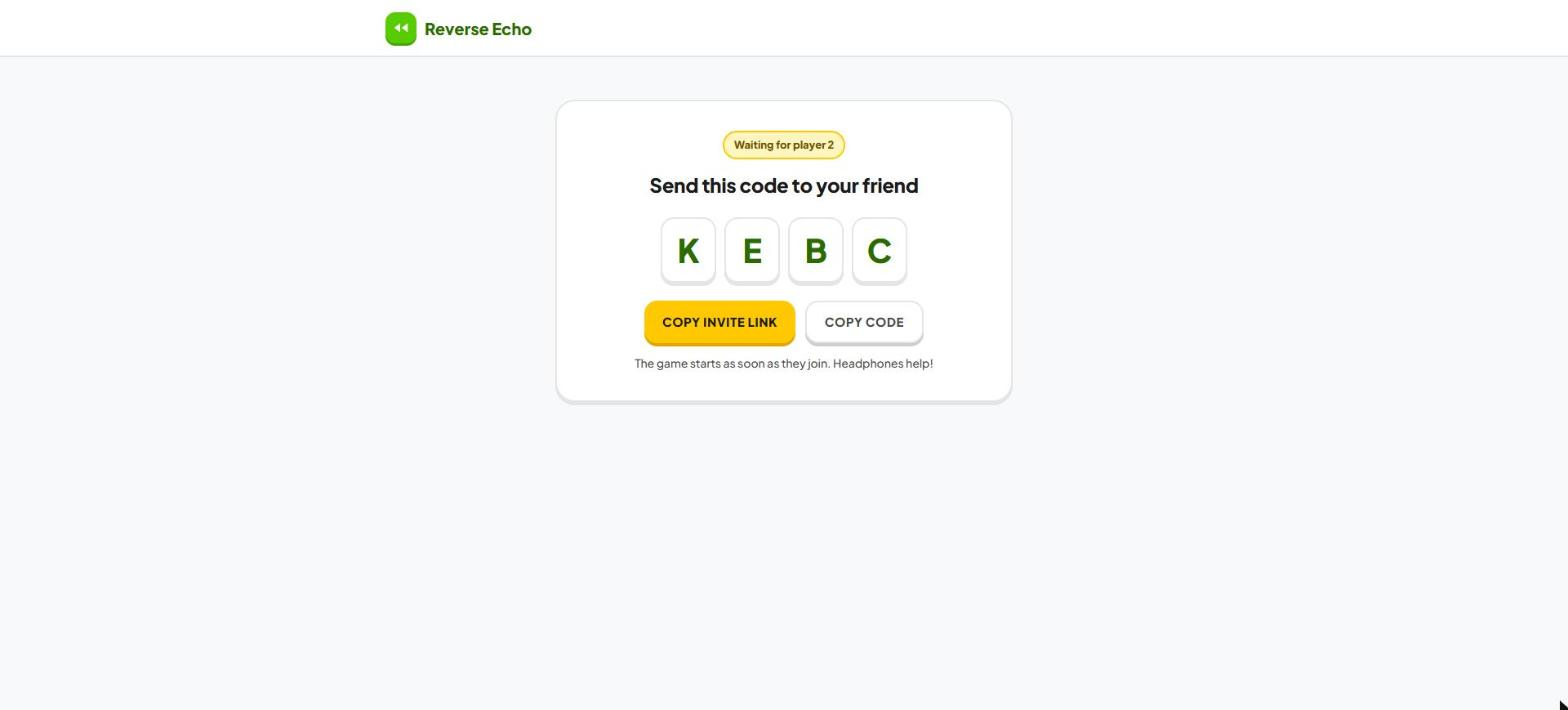
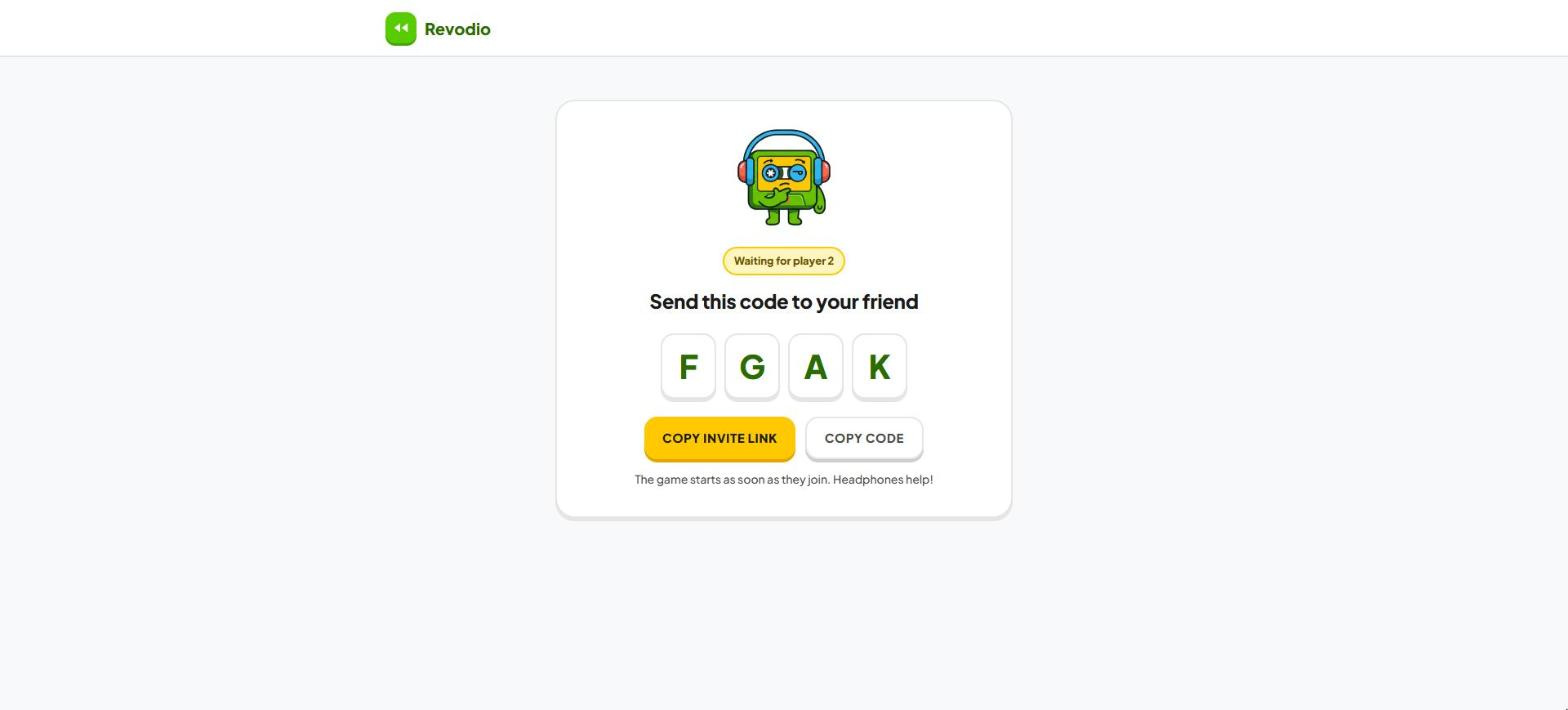
Add Revo mascot and refresh README screenshots
Revo appears waving in the lobby, recording on the category picker,
thinking on waiting screens, and celebrating or thinking on the reveal.

Changed region(s): [[0.375, 0.1549, 0.625, 0.6817], [0.2812, 0.031, 0.3438, 0.062], [0.9688, 0.9915, 1.0, 1.0]]

diff --git a/public/style.css b/public/style.css
@@ -95,7 +95,17 @@ section { display: flex; flex-direction: column; gap: 20px; animation: enter .25
 .join-row { display: flex; gap: 12px; }
 
 /* Lobby */
-.hero { text-align: center; display: flex; flex-direction: column; align-items: center; gap: 14px; padding: 24px 0 12px; }
+.hero { display: flex; align-items: center; justify-content: center; gap: 48px; padding: 8px 0 4px; }
+.hero-text { display: flex; flex-direction: column; align-items: flex-start; gap: 14px; }
+
+/* Revo the mascot */
+.revo { display: block; height: auto; user-select: none; -webkit-user-drag: none; }
+.revo-hero { width: 230px; flex: none; }
+.revo-md { width: 120px; margin-bottom: 4px; }
+.revo-sm { width: 96px; flex: none; }
+.revo-banner { width: 92px; flex: none; margin: -12px 0; }
+.bob { animation: bob 2.4s ease-in-out infinite; }
+.pick-head { display: flex; align-items: flex-end; justify-content: space-between; gap: 16px; }
 .hero h1 { font-size: 56px; line-height: 1.05; font-weight: 800; letter-spacing: -0.03em; }
 .hl { color: var(--green); }
 .lead { font-size: 19px; color: var(--ink2); font-weight: 500; max-width: 560px; }
@@ -165,21 +175,14 @@ section { display: flex; flex-direction: column; gap: 20px; animation: enter .25
 
 /* Waiting */
 .wait-card h2 { font-size: 24px; }
-.bars { display: flex; align-items: center; gap: 6px; height: 56px; margin-bottom: 4px; }
-.bars i { width: 10px; height: 18px; border-radius: 999px; background: var(--blue); animation: bar 1s ease-in-out infinite; }
-.bars i:nth-child(2) { animation-delay: .15s; } .bars i:nth-child(3) { animation-delay: .3s; }
-.bars i:nth-child(4) { animation-delay: .45s; } .bars i:nth-child(5) { animation-delay: .6s; }
 
 /* Judge + reveal */
 .verdict-row .btn { min-width: 200px; }
 .banner { display: flex; align-items: center; gap: 18px; border-radius: 24px; padding: 22px 26px; border: 2px solid; animation: pop .35s cubic-bezier(.3, 1.6, .5, 1); }
 .banner h2 { font-size: 30px; font-weight: 800; }
 .banner p { font-weight: 700; }
-.banner-icon { width: 60px; height: 60px; flex: none; border-radius: 50%; display: grid; place-items: center; color: #fff; font-size: 30px; font-weight: 800; }
 .banner.win { background: var(--green-t); border-color: var(--green); color: var(--green-ink); }
-.banner.win .banner-icon { background: var(--green); box-shadow: 0 4px 0 var(--green-d); }
 .banner.lose { background: var(--red-t); border-color: var(--red); color: var(--red-ink); }
-.banner.lose .banner-icon { background: var(--red); box-shadow: 0 4px 0 var(--red-d); }
 .eyebrow .cat { margin-left: 6px; text-transform: none; letter-spacing: 0; }
 .score-card { flex-direction: row; gap: 16px; }
 .score-tile { flex: 1; display: flex; align-items: center; justify-content: space-between; padding: 16px 20px; border-radius: 16px; background: var(--bg); border: 2px solid var(--line); font-weight: 800; color: var(--ink2); }
@@ -195,7 +198,7 @@ section { display: flex; flex-direction: column; gap: 20px; animation: enter .25
 @keyframes pop { from { transform: scale(.9); opacity: 0; } }
 @keyframes fill { to { width: 100%; } }
 @keyframes ring { 0% { box-shadow: 0 6px 0 var(--red-d), 0 0 0 0 rgba(255, 75, 75, .45); } 100% { box-shadow: 0 6px 0 var(--red-d), 0 0 0 22px rgba(255, 75, 75, 0); } }
-@keyframes bar { 50% { height: 52px; } }
+@keyframes bob { 50% { transform: translateY(-8px); } }
 @keyframes throb { to { filter: brightness(1.12); } }
 @media (prefers-reduced-motion: reduce) { *, *::before { animation-duration: 0s !important; animation-iteration-count: 1 !important; } .recording .meter i { animation: none; width: 100%; } }
 
@@ -219,6 +222,11 @@ section { display: flex; flex-direction: column; gap: 20px; animation: enter .25
   .grid2, .howto { grid-template-columns: 1fr; }
   .cat-grid { grid-template-columns: repeat(2, 1fr); gap: 12px; }
   .card { padding: 18px; }
+  .hero { flex-direction: column-reverse; gap: 8px; }
+  .hero-text { align-items: center; text-align: center; }
+  .revo-hero { width: 140px; }
+  .revo-sm { width: 72px; }
+  .revo-banner { width: 72px; }
   .hero h1 { font-size: 36px; }
   .lead { font-size: 16px; }
   .title { font-size: 24px; }

diff --git a/public/index.html b/public/index.html
@@ -42,9 +42,12 @@
   <!-- Lobby -->
   <section id="lobby">
     <div class="hero">
-      <span class="chip green">2-player voice game</span>
-      <h1>Say it. Flip it. <span class="hl">Guess it.</span></h1>
-      <p class="lead">Your friend hears your word <b>backwards</b>, copies the gibberish, then flips their copy back to crack the word.</p>
+      <div class="hero-text">
+        <span class="chip green">2-player voice game</span>
+        <h1>Say it. Flip it. <span class="hl">Guess it.</span></h1>
+        <p class="lead">Your friend hears your word <b>backwards</b>, copies the gibberish, then flips their copy back to crack the word.</p>
+      </div>
+      <img class="revo revo-hero bob" src="mascot/revo-wave.webp" alt="Revo, the Revodio mascot, waving hello" width="468" height="364">
     </div>
     <div class="grid2">
       <div class="card">
@@ -73,6 +76,7 @@
   <!-- Waiting for player 2 -->
   <section id="waitRoom" hidden>
     <div class="card center narrow">
+      <img class="revo revo-md bob" src="mascot/revo-think.webp" alt="" width="440" height="455">
       <span class="chip yellow">Waiting for player 2</span>
       <h2>Send this code to your friend</h2>
       <div class="tiles" id="codeTiles"></div>
@@ -87,8 +91,13 @@
   <!-- Recorder: pick a category, then say the word -->
   <section id="recordStep" hidden>
     <div id="pickView">
-      <h2 class="title">Pick a category</h2>
-      <p class="muted">You'll get a random word from it to say out loud.</p>
+      <div class="pick-head">
+        <div>
+          <h2 class="title">Pick a category</h2>
+          <p class="muted">You'll get a random word from it to say out loud.</p>
+        </div>
+        <img class="revo revo-sm" src="mascot/revo-record.webp" alt="" width="416" height="364">
+      </div>
       <div class="cat-grid" id="cats"></div>
     </div>
     <div id="sayView" hidden>
@@ -157,7 +166,7 @@
   <!-- Waiting on the other player -->
   <section id="waiting" hidden>
     <div class="card center narrow wait-card">
-      <div class="bars" aria-hidden="true"><i></i><i></i><i></i><i></i><i></i></div>
+      <img class="revo revo-md bob" src="mascot/revo-think.webp" alt="" width="440" height="455">
       <h2 id="waitTitle"></h2>
       <p class="muted" id="waitText"></p>
     </div>
@@ -186,7 +195,7 @@
   <!-- Reveal for both players -->
   <section id="reveal" hidden>
     <div class="banner" id="banner">
-      <div class="banner-icon" id="bannerIcon"></div>
+      <img class="revo revo-banner" id="bannerRevo" src="mascot/revo-celebrate.webp" alt="" width="477" height="463">
       <div><h2 id="verdict"></h2><p id="verdictSub"></p></div>
     </div>
     <div class="grid2">

diff --git a/public/app.js b/public/app.js
@@ -234,7 +234,7 @@ function reveal(correct) {
   const iGuessed = role === 'guesser';
   if (correct) iGuessed ? score.me++ : score.friend++;
   $('banner').className = `banner ${correct ? 'win' : 'lose'}`;
-  $('bannerIcon').textContent = correct ? '✓' : '✕';
+  $('bannerRevo').src = `mascot/revo-${correct ? 'celebrate' : 'think'}.webp`;
   $('verdict').textContent = correct ? (iGuessed ? 'You cracked it!' : 'They cracked it!') : (iGuessed ? 'Not quite!' : 'They missed it!');
   $('verdictSub').textContent = correct ? '+1 point to the guesser' : 'No point this round.';
   $('nextHint').textContent = `Next round you ${iGuessed ? 'record' : 'guess'}.`;
